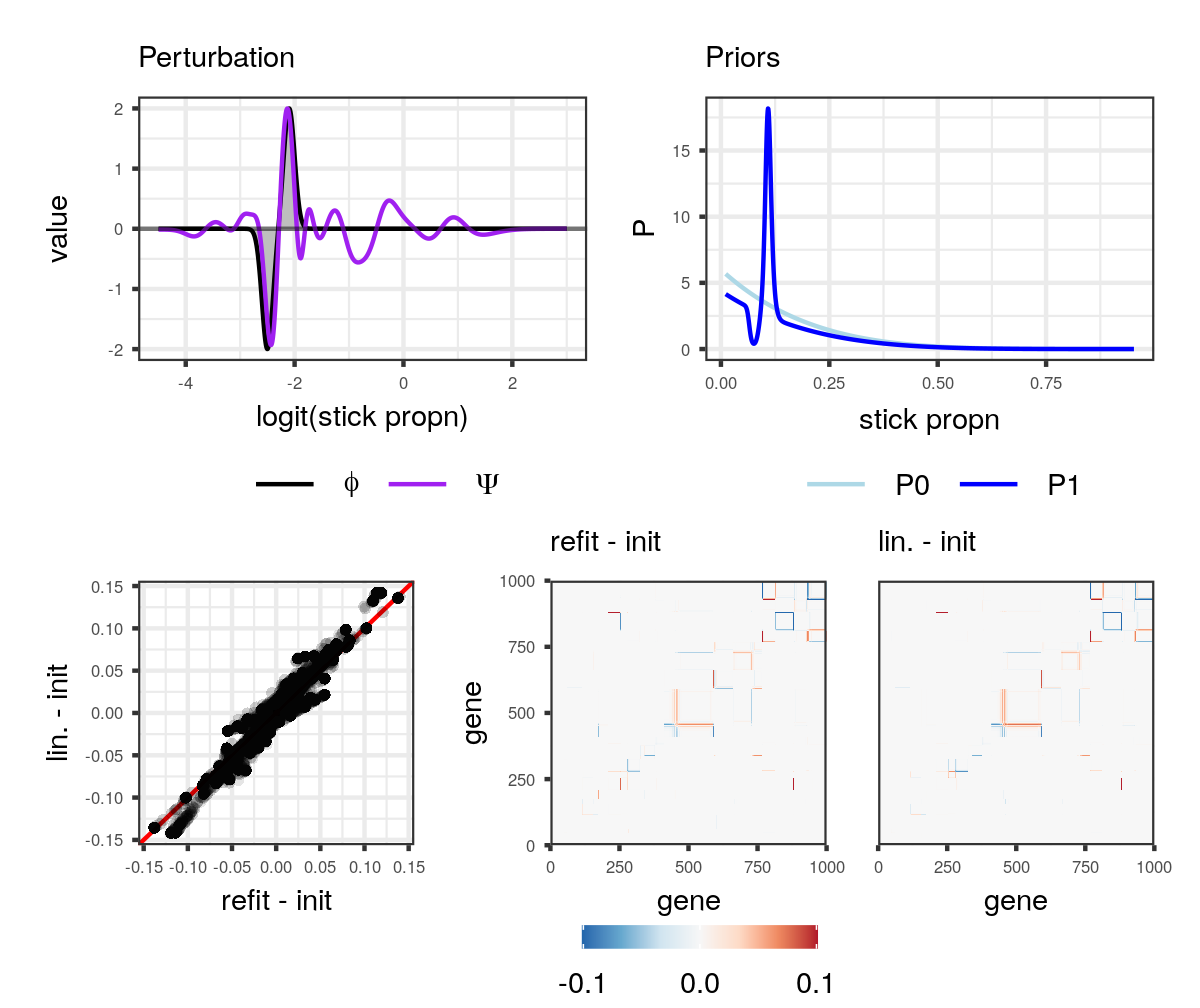
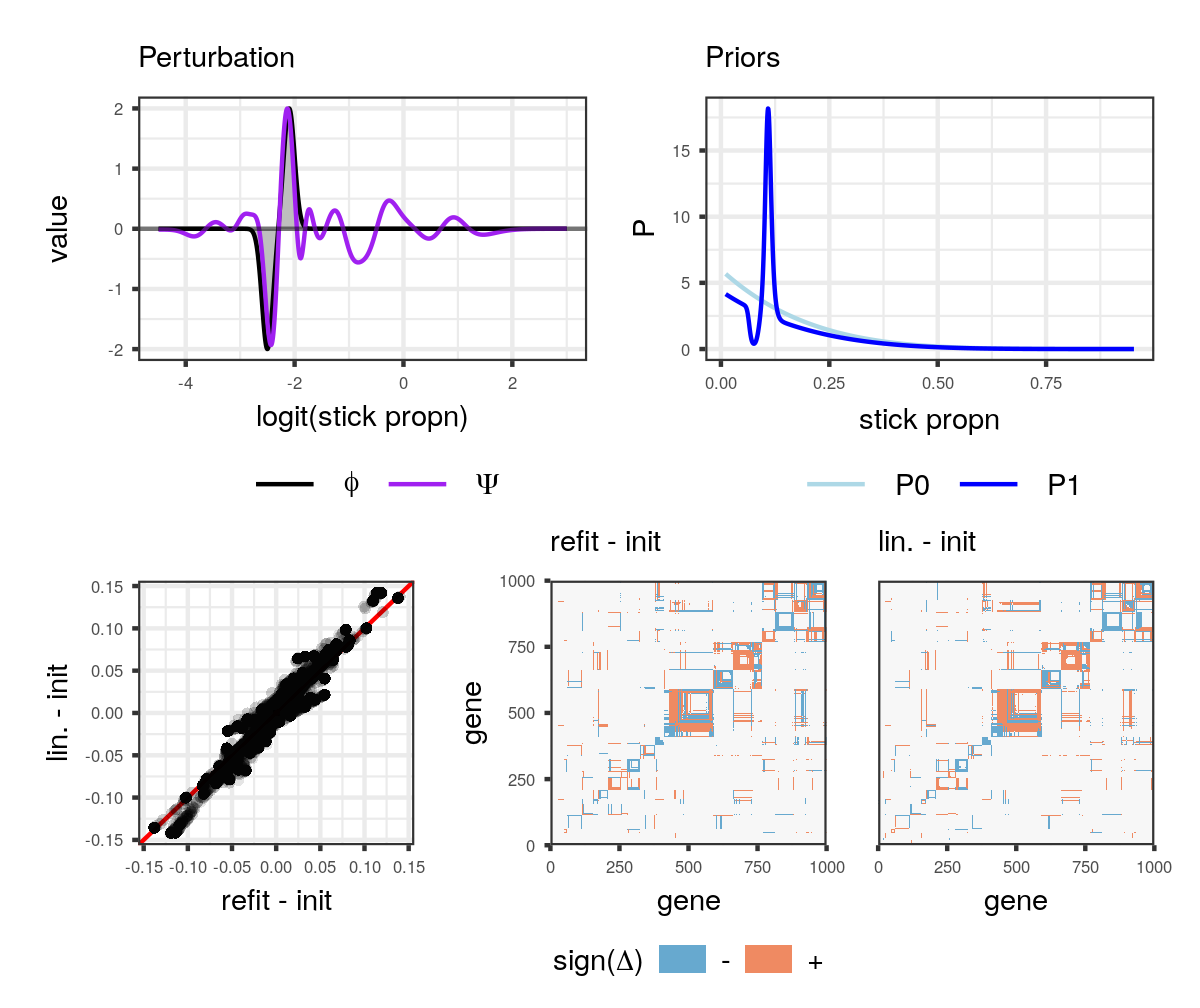
update mice figures and captions

diff --git a/writing/journal_paper/mice_data_experiments.tex b/writing/journal_paper/mice_data_experiments.tex
@@ -143,7 +143,7 @@ variational parameters, at $\alpha = 1$ and $\alpha = 11$.
 For either $\alpha$, the change in the posterior co-clustering 
 matrix is minuscule (\figref{gene_alpha_coclustering}):
 the largest entry of either matrix $\Delta\gcoclustering(\etalinglobal(1))$ 
-or $\Delta\gcoclustering(\etalinglobal(11))$ is of order $10^{-2}$. 
+or $\Delta\gcoclustering(\etalinglobal(11))$ is of order $10^{-2}$.
 Refitting the approximate posterior at $\alpha = 1$ and $\alpha = 11$ 
 and computing $\Delta\gcoclustering(\etaopt(\alpha))$
 confirms the insensitivity predicted by the 
@@ -164,23 +164,23 @@ approximate the sign and size of the changes in the individual entries of the co
      co-clustering matrix at $\alpha = 1$ (top row)
      and $\alpha = 11$ (bottom row),
      relative to the co-clustering matrix at $\alpha_0 = 6$.
-     We compare differences obtained with the linearly approximated 
-     variational parameters against changes observed after 
-     refiting]{Differences in the 
-     co-clustering matrix at $\alpha = 1$ (top row)
-     and $\alpha = 11$ (bottom row),
-     relative to the co-clustering matrix at $\alpha_0 = 6$.
-     We compare differences obtained with the linearly approximated 
-     variational parameters against changes observed after 
-     refiting. 
      (Left) a scatter plot of differences under the linear approximation 
      against differences after refitting, where
      each point represents an entry of the co-coclustering matrix.
-     (Middle) the difference in co-clustering matrix observed after refitting. 
-     (Right) the difference observed under the linearly approximated variational
+     Note the scales of the axes]{Differences in the 
+     co-clustering matrix at $\alpha = 1$ (top row)
+     and $\alpha = 11$ (bottom row),
+     relative to the co-clustering matrix at $\alpha_0 = 6$.
+     (Left) a scatter plot of differences under the linear approximation 
+     against differences after refitting, where
+     each point represents an entry of the co-coclustering matrix.
+     Note the scales of the axes: 
+     the largest change in an entry of the co-clustering matrix is 
+     $\approx 0.03$.  
+     (Middle) sign changes in the co-clustering matrix observed after refitting. 
+     (Right) the changes under the linearly approximated variational
      parameters. 
-     For visualization, values in the heatmaps
-     are clipped at $\pm 10^{-3}$. }\label{fig:gene_alpha_coclustering}
+     For visualization, changes with absolute value $< 1e-5$ are not colored. }\label{fig:gene_alpha_coclustering}
 \end{figure}
 
 
@@ -240,23 +240,16 @@ The linearized variational parameters are again able to capture the qualitative 
 
 \caption[Effect on the co-clustering matrix after a multiplicative functional
      perturbation.
-     The perturbation $\phi$ (top left, in grey) 
-     is a difference of two Gaussian bumps 
-     scaled to have $L_\infty$ norm equal to two.
-     $\phi$ is chosen such that the Gaussian bumps roughly align with the 
-     two largest modes of the influence function (top left, purple]{Effect on the co-clustering matrix after a multiplicative functional
+     (Top left) the perturbation $\phi$ in grey, 
+     and the influence function in purple]{Effect on the co-clustering matrix after a multiplicative functional
      perturbation.
-     The perturbation $\phi$ (top left, in grey) 
-     is a difference of two Gaussian bumps 
-     scaled to have $L_\infty$ norm equal to two.
-     $\phi$ is chosen such that the Gaussian bumps roughly align with the 
-     two largest modes of the influence function (top left, purple; 
-     the influence function is scaled to also have $L_\infty$ norm equal to two).
-     The effect of this perturbation on the prior density in the top right. 
-     The bottom row shows the effect of this perturbation on 
+     (Top left) the perturbation $\phi$ in grey, 
+     and the influence function in purple. 
+     (Top right) the effect of this perturbation on the prior density. 
+     (Bottom) the effect of this perturbation on 
     the coclustering matrix.
-    For visualization, the differences in the heatmap 
-     are clipped at $\pm 10^{-1}$.}\label{fig:gene_fpert_coclustering}
+    Note the scale of the scatterplot axes compared with
+    the scatterplots in \figref{gene_alpha_coclustering}. }\label{fig:gene_fpert_coclustering}
 \end{figure}
 
 
